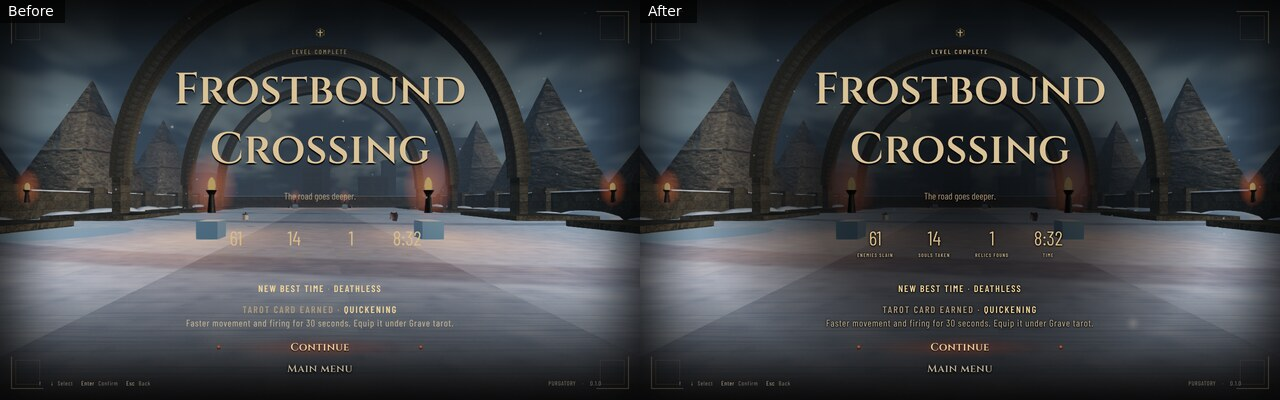
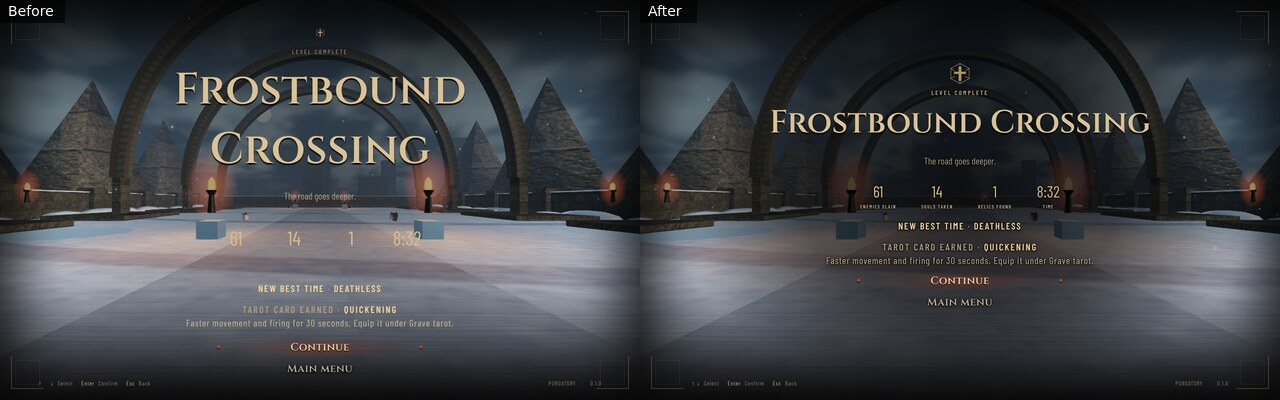
Compact the result screen up to 860 px tall, not 700
In Firefox at 1280 x 800 a record clear with a new card put the last
command 1 px into the key line (about 740 px of content). The compact
result layout now applies up to 860 px tall; the fit check covers
1366 x 768 and 1440 x 900 too, and the contrast table is re-measured
with the final layout. README notes the input-aware menu key line.

diff --git a/src/style.css b/src/style.css
@@ -1075,6 +1075,29 @@ body[data-mode="dead"] #world {
     opacity: 1;
   }
 }
+/* A level clear with a record and a new card is taller than many windows (about 740
+   pixels at full size): compact it below 860 pixels. */
+@media (max-height: 860px) {
+  .result-screen {
+    inset: 3vh 10vw 9vh;
+  }
+  .result-screen .end-seal {
+    height: 44px;
+    margin-bottom: 8px;
+  }
+  .result-screen h1 {
+    font-size: clamp(36px, 9vh, 64px);
+  }
+  .result-screen .result-stats {
+    margin: 8px 0 12px;
+  }
+  .result-screen .result-stats b {
+    font-size: 32px;
+  }
+  .result-screen .card-earned {
+    margin-bottom: 6px;
+  }
+}
 /* Each weapon's page, trick included, fits without scrolling in windows down to 600 px
    tall (a 1280 × 720 window, a laptop's browser, the desktop window's minimum). */
 @media (max-height: 760px) {
@@ -1098,26 +1121,6 @@ body[data-mode="dead"] #world {
 @media (max-height: 700px) {
   .title-screen {
     inset: 5vh 10vw 9vh;
-  }
-  /* A level clear with a record and a new card is taller than a short window. */
-  .result-screen {
-    inset: 3vh 10vw 9vh;
-  }
-  .result-screen .end-seal {
-    height: 44px;
-    margin-bottom: 8px;
-  }
-  .result-screen h1 {
-    font-size: clamp(36px, 9vh, 64px);
-  }
-  .result-screen .result-stats {
-    margin: 8px 0 12px;
-  }
-  .result-screen .result-stats b {
-    font-size: 32px;
-  }
-  .result-screen .card-earned {
-    margin-bottom: 6px;
   }
   .logo h1 {
     font-size: 76px;

diff --git a/tests/round10-checks.js b/tests/round10-checks.js
@@ -73,6 +73,8 @@
       const sizes = [];
       for (const [w, h] of [
         [960, 600],
+        [1366, 768],
+        [1440, 900],
         [1920, 1080],
         [1280, 800],
       ]) {

diff --git a/docs/DEVELOPMENT.md b/docs/DEVELOPMENT.md
@@ -249,18 +249,18 @@ After: 0 of 384 small-label readings under 3:1 (the lowest is Frostbound Crossin
 
 ## Result and ending screens (round 10)
 
-The level-complete and ending screens show the arena you cleared, sharp and undimmed (pause and death blur and darken it). Their text sat on it with no backing, so over Frostbound Crossing's snow the four stat labels measured 1.0:1, invisible, and the numbers and record line 1.4:1. They now have a soft dark backing (`.result-screen::before`, a radial gradient behind the text that fades out before the screen's edges and takes no clicks), a dark halo on their text, and the kicker and stat labels in a lighter, semi-bold gold. In windows under 700 pixels tall the seal, title and stats are smaller: at the desktop window's minimum, 960 × 600, a clear that earned a card used to push _Main menu_ off the bottom of the window and _Continue_ onto the key line, with the seal cut off at the top.
+The level-complete and ending screens show the arena you cleared, sharp and undimmed (pause and death blur and darken it). Their text sat on it with no backing, so over Frostbound Crossing's snow the four stat labels measured 1.0:1, invisible, and the numbers and record line 1.4:1. They now have a soft dark backing (`.result-screen::before`, a radial gradient behind the text that fades out before the screen's edges and takes no clicks), a dark halo on their text, and the kicker and stat labels in a lighter, semi-bold gold. In windows up to 860 pixels tall the seal, title and stats are smaller and the text sits higher, since a clear with a record and a new card is about 740 pixels tall at full size: at the desktop window's minimum, 960 × 600, it used to push _Main menu_ off the bottom of the window and _Continue_ onto the key line, with the seal cut off at the top, and in Firefox at 1280 × 800 the last command touched the key line.
 
 Measured with `tools/media/round10/result-contrast.js` (frame pairs of the screen with and without its text, read by `tools/media/round9/hud-contrast.mjs`), at 1280 × 800, two headings per arena, for a deathless record clear with a relic and a new card. Before → after, worst and best reading:
 
-| Screen                          | Kicker, subtitle, stat labels, card line | Title, stat numbers, record line | Commands  |
-| ------------------------------- | ---------------------------------------- | -------------------------------- | --------- |
-| Hallowed Ground                 | 1.7–5.5 → 6.6–9.4                        | 2.2–6.6 → 6.6–10.4               | 6.3 → 7.1 |
-| Frostbound Crossing             | 1.0–7.0 → 5.7–8.9                        | 1.4–9.3 → 5.8–9.9                | 4.3 → 6.2 |
-| Dune Sepulchre                  | 1.8–6.8 → 7.1–9.2                        | 4.0–9.5 → 5.7–11.0               | 6.9 → 6.8 |
-| The ending (The Abyss; no card) | 3.1–6.8 → 7.4–9.7                        | 4.3–9.6 → 5.8–11.1               | 4.1 → 4.0 |
+| Screen                          | Kicker, subtitle, stat labels, card line | Title, stat numbers, record line | Commands, worst |
+| ------------------------------- | ---------------------------------------- | -------------------------------- | --------------- |
+| Hallowed Ground                 | 1.7–5.5 → 6.7–9.4                        | 2.2–6.6 → 6.2–10.5               | 6.3 → 7.2       |
+| Frostbound Crossing             | 1.0–7.0 → 5.9–9.7                        | 1.4–9.3 → 6.3–11.1               | 4.3 → 5.9       |
+| Dune Sepulchre                  | 1.8–6.8 → 7.0–9.6                        | 4.0–9.5 → 6.9–11.0               | 6.9 → 6.6       |
+| The ending (The Abyss; no card) | 3.1–6.8 → 7.4–9.6                        | 4.3–9.6 → 6.5–11.0               | 4.1 → 3.9       |
 
-The ending's one command, _Main menu_, stays at 4.0:1: it is focused, and the menus' focus style puts an orange glow around the text, which this method counts against it. `tests/round10-checks.js` checks the backing, halo and label colours at 960 × 600, 1280 × 800 and 1920 × 1080, that every part of the screen is inside the window and the commands clear of the key line, that _Continue_ still takes a click and starts the next level, and that the ending has the backing while the death and pause screens do not; all three checks fail on the old code. Capture: `docs/media/improvements/round10/r10-2-result-screen.jpg`.
+The ending's one command, _Main menu_, stays at 3.9:1 (4.1 before): it is focused, and the menus' focus style puts an orange glow around the text, which this method counts against it. `tests/round10-checks.js` checks the backing, halo and label colours at 960 × 600, 1280 × 800, 1366 × 768, 1440 × 900 and 1920 × 1080, that every part of the screen is inside the window and the commands clear of the key line, that _Continue_ still takes a click and starts the next level, and that the ending has the backing while the death and pause screens do not; all three checks fail on the old code. Capture: `docs/media/improvements/round10/r10-2-result-screen.jpg`.
 
 ## Arsenal page in short windows (round 10)
 

diff --git a/README.md b/README.md
@@ -51,7 +51,7 @@ Clear each **sector** by surviving three waves. Red arcs around the crosshair po
 | Pause                          | Esc or P                            | Start                         | Ⅱ                                 |
 | Fullscreen (desktop)           | F11                                 |                               |                                   |
 
-These are the defaults. Every keyboard and mouse action can be rebound to any key or mouse button (including side buttons), two per action, under **Options › Controls**, and so can the controller's buttons, including the D-pad and Back, which are free by default and can pick weapons directly. Esc and Start always pause. The sticks move and look, and can be swapped for left-handed play; sprint can be held or toggled (a toggled sprint ends when you press it again or stop moving). The touch layout is fixed. Menus work with the mouse, arrow keys + Enter + Esc, or the D-pad + A/B. If the browser will not give the mouse back when a paused fight resumes (Chromium refuses for about a second after Esc), the fight waits for a click instead of carrying on without it. Touch controls appear on touchscreen devices and when you touch the screen; moving or clicking the mouse brings back keyboard and mouse play, so a narrow browser window still aims with the mouse.
+These are the defaults. Every keyboard and mouse action can be rebound to any key or mouse button (including side buttons), two per action, under **Options › Controls**, and so can the controller's buttons, including the D-pad and Back, which are free by default and can pick weapons directly. Esc and Start always pause. The sticks move and look, and can be swapped for left-handed play; sprint can be held or toggled (a toggled sprint ends when you press it again or stop moving). The touch layout is fixed. Menus work with the mouse, arrow keys + Enter + Esc, or the D-pad + A/B, and the key line at the bottom of each menu names the controller's buttons while one is connected. If the browser will not give the mouse back when a paused fight resumes (Chromium refuses for about a second after Esc), the fight waits for a click instead of carrying on without it. Touch controls appear on touchscreen devices and when you touch the screen; moving or clicking the mouse brings back keyboard and mouse play, so a narrow browser window still aims with the mouse.
 
 ## Features
 
